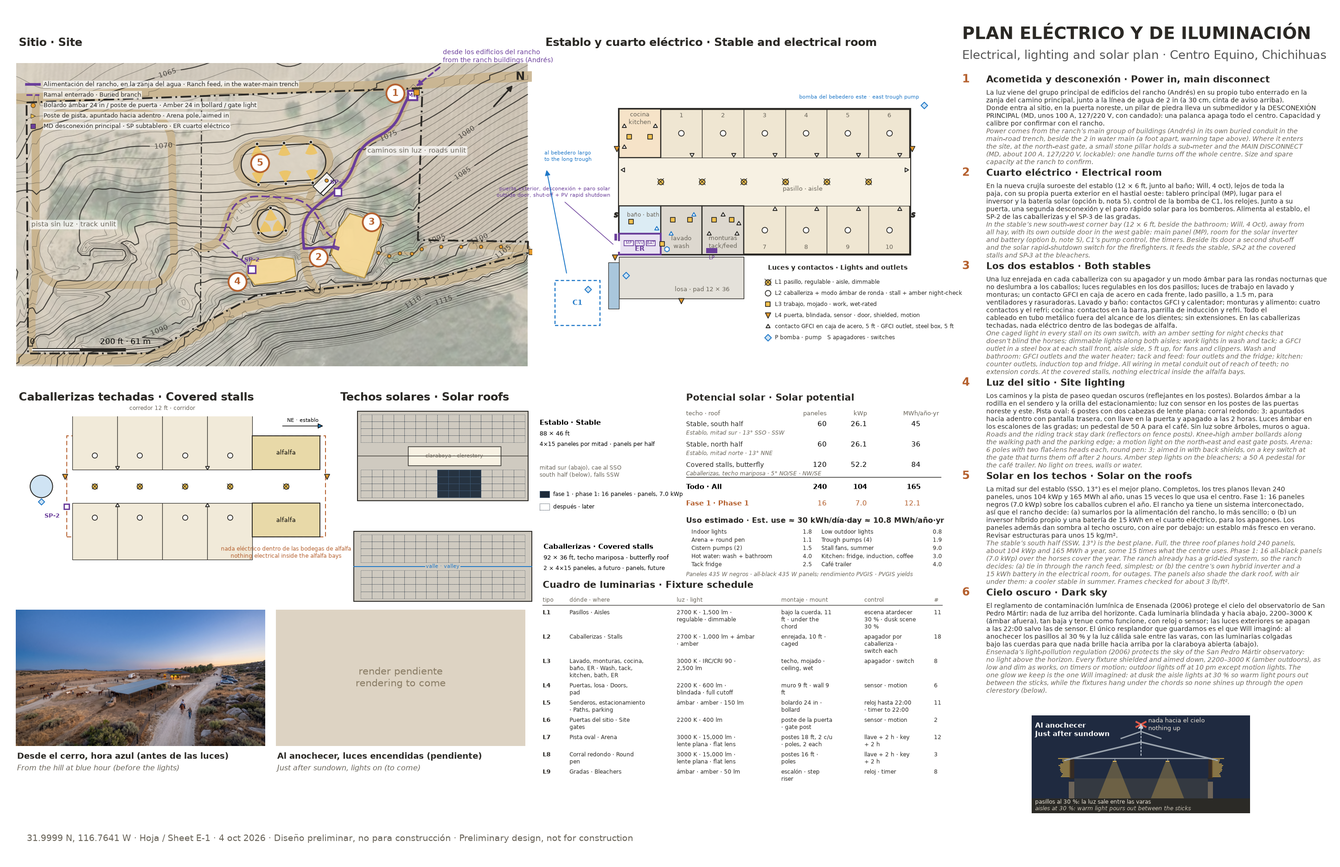
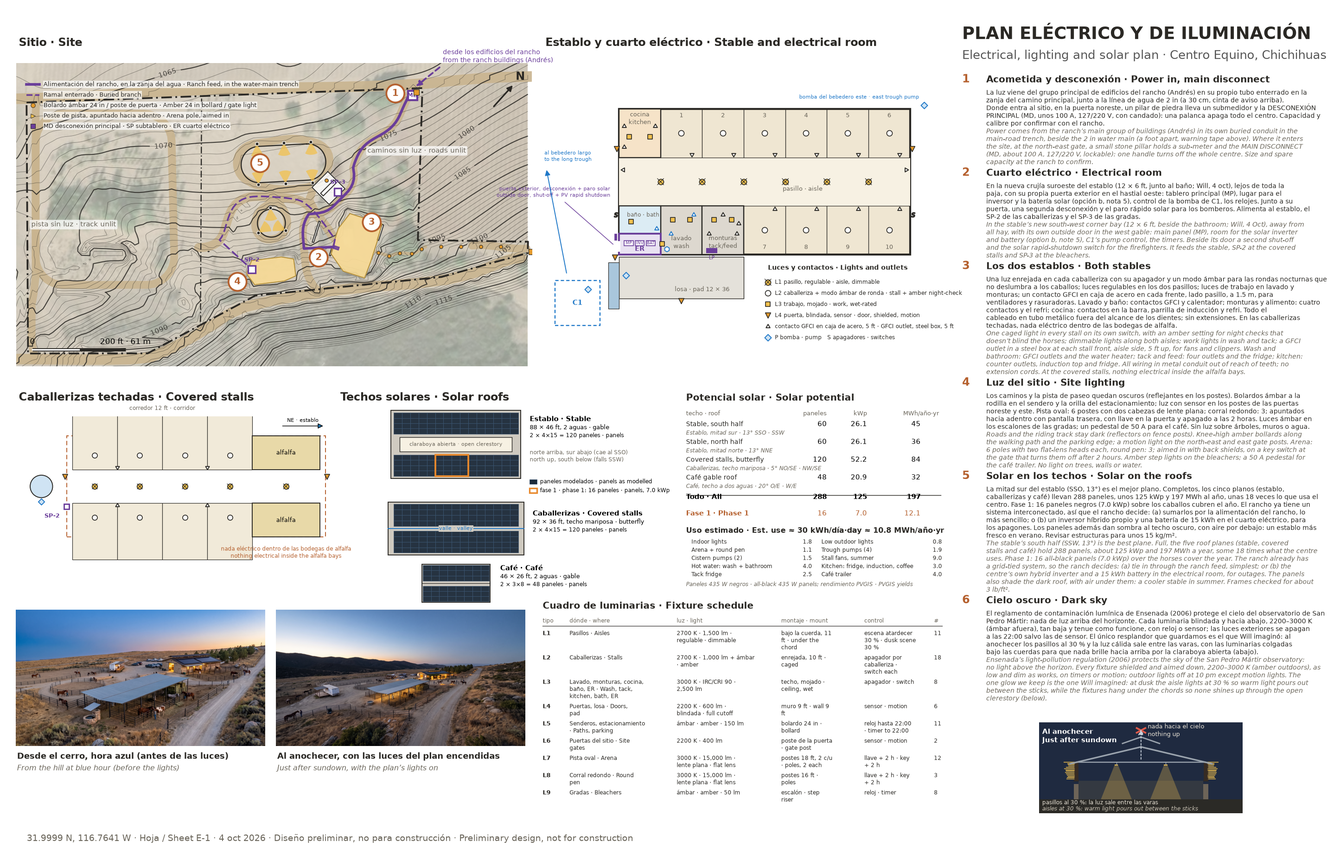
Renders: model shots record which objects are in frame; the brief drops descriptions of anything outside it (no invented backgrounds). E-1: roof diagram shows all modelled panels incl. the café gable; café added to the solar total (288 panels, 125 kWp, 197 MWh/yr)

Changed region(s): [[0.0, 0.4652, 0.9965, 0.9305], [0.218, 0.1861, 0.2803, 0.2791]]

diff --git a/projects/viewer/index.html b/projects/viewer/index.html
@@ -198,7 +198,7 @@ body.shot{grid-template-columns:1fr}
     scene.add(new THREE.Mesh(sg, new THREE.MeshLambertMaterial({ color: 0x8a6f52, side: THREE.DoubleSide }))); }
 
   // objects: body + roof, grouped for the switches
-  const groups = { roof: [], fence: [], truss: [], figures: [], solar: [] }, centres = {};
+  const groups = { roof: [], fence: [], truss: [], figures: [], solar: [] }, centres = {}, boxes = {}; window.__boxes = boxes;   /* 4 Oct: per-object boxes, so render shots can list what is in frame */
   const tex = (draw, rep = 1) => { const c = document.createElement('canvas'); c.width = c.height = 256; const x = c.getContext('2d'); draw(x); const t = new THREE.CanvasTexture(c); t.wrapS = t.wrapT = THREE.RepeatWrapping; t.anisotropy = 8; t.encoding = THREE.sRGBEncoding; t.rep = rep; return t; };
   let seed = 7; const rnd = () => (seed = (seed * 16807) % 2147483647) / 2147483647;
   const TEX = {
@@ -282,12 +282,12 @@ body.shot{grid-template-columns:1fr}
       const ctr = new THREE.Vector3(); { let n = 0; for (const a of Object.values(arrs)) for (let k = 0; k < a.length; k += 3) { ctr.x += a[k]; ctr.z += a[k + 2]; n++; } ctr.multiplyScalar(1 / n); }
       let all = []; for (const [m, arr] of Object.entries(arrs)) { const mesh = part(arr, m, axis, ROOF[o.name], ctr); if (m === 'roof' || m === 'glass') groups.roof.push(mesh); if (m === 'truss') groups.truss.push(mesh); if (m === 'solar') groups.solar.push(mesh); if (m === 'figure') { groups.figures.push(mesh); mesh.visible = false; /* pose figures: render shots only */ } all.push(arr); }
       const b = all.reduce((acc, a) => { const c = new Float32Array(acc.length + a.length); c.set(acc); c.set(a, acc.length); return c; }, new Float32Array(0));
-      let sx = 0, sz = 0, sy = 0, n = b.length / 3; for (let k = 0; k < b.length; k += 3) { sx += b[k]; sy = Math.max(sy, b[k + 1]); sz += b[k + 2]; } centres[o.name] = new THREE.Vector3(sx / n, sy, sz / n); continue;
+      let sx = 0, sz = 0, sy = 0, n = b.length / 3; for (let k = 0; k < b.length; k += 3) { sx += b[k]; sy = Math.max(sy, b[k + 1]); sz += b[k + 2]; } centres[o.name] = new THREE.Vector3(sx / n, sy, sz / n); boxes[o.name] = new THREE.Box3().setFromArray(b); continue;
     }
     const b = f32(o.body), m = soup(b, o.color); if (o.group === 'fence') groups.fence.push(m);
     if (o.roof) { const r = soup(f32(o.roof), o.roofColor); groups.roof.push(r); }
     let sx = 0, sz = 0, sy = 0, n = b.length / 3; for (let k = 0; k < b.length; k += 3) { sx += b[k]; sy = Math.max(sy, b[k + 1]); sz += b[k + 2]; }
-    centres[o.name] = new THREE.Vector3(sx / n, sy, sz / n);
+    centres[o.name] = new THREE.Vector3(sx / n, sy, sz / n); boxes[o.name] = new THREE.Box3().setFromArray(b);
   }
   // roads, ditches, the natural sink: ribbons draped on the ground
   const ribbon = (pts, w, color, lift, op = 1) => { const P = []; for (let k = 0; k < pts.length - 1; k++) { const [x1, z1] = pts[k], [x2, z2] = pts[k + 1], L = Math.hypot(x2 - x1, z2 - z1), n = Math.max(1, Math.ceil(L / 1.5)); for (let q = 0; q < n; q++) P.push([x1 + (x2 - x1) * q / n, z1 + (z2 - z1) * q / n]); } P.push(pts[pts.length - 1]);

diff --git a/projects/electrical.py b/projects/electrical.py
@@ -18,13 +18,14 @@ def pts_of(name): return np.array([q[:2] for q in byname(name)[0]['pts']])
 POW='#6a3d9a'; AMBER='#e39a2d'; WARM='#f2c14e'; PV='#1d2b3a'; PVF='#3c5878'
 # ---------------- numbers ----------------
 PANEL=(5.64,3.71,435)                                  # 1722 x 1134 mm all-black module, 435 W
-YIELD=dict(stS=1743,stN=1390,stalls=1600)              # kWh per kWp a year, PVGIS (NSRDB) 31.9999 N 116.7641 W, 14 % losses: stable S half 13.4° az 204°, N half az 24°, butterfly 4.8° both ways (1565/1634)
+YIELD=dict(stS=1743,stN=1390,stalls=1600,cafW=1567,cafE=1518)   # café roof 20° facing 273° / 93° (PVGIS, 4 Oct)              # kWh per kWp a year, PVGIS (NSRDB) 31.9999 N 116.7641 W, 14 % losses: stable S half 13.4° az 204°, N half az 24°, butterfly 4.8° both ways (1565/1634)
 def rows_cols(depth,length,margin=(1.5,1.0)):
     return int((depth-margin[0]-margin[1])//PANEL[1]), int((length-3)//PANEL[0])
 st_r,st_c=rows_cols(18/math.cos(math.radians(13.4)),88)          # 4 Oct: the stable is 84 ft (88 with overhangs)          # stable half: eave (with overhang) to the clerestory edge, along the slope
 sl_r,sl_c=rows_cols(18,92)                                        # each butterfly plane: eave to valley
-N_ST=st_r*st_c; N_SL=2*sl_r*sl_c; kw=lambda n:n*PANEL[2]/1000
-PV_ROWS=[('Establo, mitad sur · Stable, south half','13° SSO · SSW',N_ST,YIELD['stS']),('Establo, mitad norte · Stable, north half','13° NNE',N_ST,YIELD['stN']),('Caballerizas, techo mariposa · Covered stalls, butterfly','5° NO/SE · NW/SE',N_SL,YIELD['stalls'])]
+N_ST=st_r*st_c; N_SL=2*sl_r*sl_c; N_CF=8*3;   # café: 8 x 3 per slope on its 46 x 26 ft gable (bleachers.py)
+kw=lambda n:n*PANEL[2]/1000
+PV_ROWS=[('Establo, mitad sur · Stable, south half','13° SSO · SSW',N_ST,YIELD['stS']),('Establo, mitad norte · Stable, north half','13° NNE',N_ST,YIELD['stN']),('Caballerizas, techo mariposa · Covered stalls, butterfly','5° NO/SE · NW/SE',N_SL,YIELD['stalls']),('Café, techo a dos aguas · Café gable roof','20° O/E · W/E',2*N_CF,(YIELD['cafW']+YIELD['cafE'])/2)]
 PH1=16; PH1_KW=kw(PH1); PH1_MWH=PH1_KW*YIELD['stS']/1000
 LOADS=[('Luces interiores · Indoor lights',0.6,3),('Luces exteriores bajas · Low outdoor lights',.15,5),('Pista y corral redondo, 3 noches/sem · Arena + round pen, 3 nights/wk',1.7,1.5*3/7),
        ('Bombas de bebederos (4) · Trough pumps (4)',.16,12),('Bombas de cisternas (2) · Cistern pumps (2)',1.5,1),('Ventiladores, verano · Stall fans, summer',1.8,10/2),
@@ -172,31 +173,40 @@ cx_.text(XS+12,-RE-3,'nada eléctrico dentro de las bodegas de alfalfa\nnothing 
 cx_.text(-HL+32,HD+1.2,'corredor 12 ft · corridor',fontsize=5.2,ha='center',color='#6a655a'); cx_.annotate('',xy=(46,21.5),xytext=(30,21.5),arrowprops=dict(arrowstyle='-|>',lw=.6)); cx_.text(38,22.5,'NE · establo',fontsize=4.8,ha='center',va='bottom')
 
 # ---------------- roof plans: solar ----------------
-rx=fig.add_axes([0.252,0.302,0.258,0.228]); rx.set_aspect('equal'); rx.axis('off'); rx.set_xlim(-50,120); rx.set_ylim(-2,100)   # 4 Oct (Will): the two roofs stacked, bigger
+rx=fig.add_axes([0.252,0.302,0.258,0.228]); rx.set_aspect('equal'); rx.axis('off'); rx.set_xlim(-50,124); rx.set_ylim(-34,100)   # 4 Oct (Will): three roofs, all modelled panels shown
 fig.text(0.254,0.538,'Techos solares · Solar roofs',fontsize=10,weight='bold',color=INK)
-def panels(ax_,x0,y0,nr,nc,dy,col,alpha,lw=.3,sel=None):
-    pw,ph=PANEL[0],PANEL[1]*(math.cos(math.radians(13.4)) if dy else 1)
+def panels(ax_,x0,y0,nr,nc,dy,cosf=1.0):
+    pw,ph=PANEL[0],PANEL[1]*cosf
     for r_ in range(nr):
         for c_ in range(nc):
-            on=sel is None or sel(r_,c_)
-            yy=y0+(r_*ph if dy>0 else -(r_+1)*ph); ax_.add_patch(MRect((x0+c_*pw,yy),pw,ph,fc=PV if on else 'none',ec=PVF if on else PV,lw=lw if on else .35,alpha=alpha if on else .55,ls='-' if on else (0,(2,1.2))))
-# stable roof (76 x 46 with overhangs), the open clerestory, ridge; plan y up = north
-Y0=52                                                                                              # stable roof on top (y 52..98), stalls roof below (y 0..36)
-rx.add_patch(MRect((-44,Y0),88,46,fc='#cfcac0',ec=INK,lw=.8)); rx.plot([-44,44],[Y0+23,Y0+23],color=INK,lw=.5)
-rx.add_patch(MRect((-38,Y0+18),76,10,fc='#f7f1e3',ec=INK,lw=.6)); rx.text(0,Y0+23,'claraboya · clerestory',fontsize=4.8,ha='center',va='center',color='#6a655a')
+            yy=y0+(r_*ph if dy>0 else -(r_+1)*ph); ax_.add_patch(MRect((x0+c_*pw,yy),pw,ph,fc=PV,ec=PVF,lw=.3,alpha=.95))
+CS13=math.cos(math.radians(13.4))
+# stable roof 88 x 46 with overhangs, the 76 ft open clerestory along the ridge; plan y up = north
+Y0=52
+rx.add_patch(MRect((-44,Y0),88,46,fc='#cfcac0',ec=INK,lw=.8))
 w0=-st_c*PANEL[0]/2
-panels(rx,w0,Y0+1.5,st_r,st_c,1,PV,.95,sel=lambda r_,c_:abs(w0+(c_+.5)*PANEL[0])<=2*PANEL[0])                    # south half: phase 1 = the middle 4 x 4
-panels(rx,w0,Y0+44.5,st_r,st_c,-1,PV,.95,sel=lambda r_,c_:False)                                   # north half: optional
-rx.text(50,Y0+40,'Establo · Stable',fontsize=6.4,weight='bold',va='center'); rx.text(50,Y0+34.5,'88 × 46 ft',fontsize=5.4,va='center')
-rx.text(50,Y0+29,f'{st_r}×{st_c} paneles por mitad · panels per half',fontsize=5.0,va='center')
-rx.text(50,Y0+15,'mitad sur (abajo), cae al SSO\nsouth half (below), falls SSW',fontsize=5.0,va='center',color='#6a655a')
-rx.add_patch(MRect((-46,0),92,36,fc='#cfcac0',ec=INK,lw=.8)); rx.plot([-46,46],[18,18],color='#1f78c8',lw=.8)
-s0=-sl_c*PANEL[0]/2; panels(rx,s0,1.5,sl_r,sl_c,1,PV,.95,sel=lambda r_,c_:False); panels(rx,s0,36-1.5,sl_r,sl_c,-1,PV,.95,sel=lambda r_,c_:False)
-rx.text(0,18,'valle · valley',fontsize=4.8,ha='center',va='center',color='#1f78c8',bbox=dict(fc='#cfcac0',ec='none',pad=.6))
-rx.text(52,28,'Caballerizas · Covered stalls',fontsize=6.4,weight='bold',va='center'); rx.text(52,22.5,'92 × 36 ft, techo mariposa · butterfly roof',fontsize=5.4,va='center')
-rx.text(52,17,f'2 × {sl_r}×{sl_c} paneles, a futuro · panels, future',fontsize=5.0,va='center')
-rx.add_patch(MRect((50,Y0+1.5),5,3.4,fc=PV,ec=PVF,lw=.3)); rx.text(57,Y0+3.2,f'fase 1 · phase 1: {PH1} paneles · panels, {PH1_KW:.1f} kWp',fontsize=5.0,va='center')
-rx.add_patch(MRect((50,Y0-5),5,3.4,fc='none',ec=PV,lw=.35,ls=(0,(2,1.2)))); rx.text(57,Y0-3.3,'después · later',fontsize=5.0,va='center')
+panels(rx,w0,Y0+1.5,st_r,st_c,1,CS13); panels(rx,w0,Y0+44.5,st_r,st_c,-1,CS13)
+rx.add_patch(MRect((-38,Y0+18),76,10,fc='#f7f1e3',ec=INK,lw=.6)); rx.text(0,Y0+23,'claraboya abierta · open clerestory',fontsize=4.8,ha='center',va='center',color='#6a655a')
+p1x=w0+(st_c//2-2)*PANEL[0]; rx.add_patch(MRect((p1x,Y0+1.5),4*PANEL[0],4*PANEL[1]*CS13,fill=False,ec='#e8892c',lw=1.6))   # phase 1 outlined
+rx.text(50,Y0+40,'Establo · Stable',fontsize=6.4,weight='bold',va='center'); rx.text(50,Y0+34.5,'88 × 46 ft, 2 aguas · gable',fontsize=5.4,va='center')
+rx.text(50,Y0+29,f'2 × {st_r}×{st_c} = {2*N_ST} paneles · panels',fontsize=5.0,va='center')
+rx.text(50,Y0+15,'norte arriba, sur abajo (cae al SSO)'+chr(10)+'north up, south below (falls SSW)',fontsize=5.0,va='center',color='#6a655a')
+# covered stalls, butterfly
+rx.add_patch(MRect((-46,0),92,36,fc='#cfcac0',ec=INK,lw=.8))
+s0=-sl_c*PANEL[0]/2; panels(rx,s0,1.5,sl_r,sl_c,1); panels(rx,s0,36-1.5,sl_r,sl_c,-1)
+rx.plot([-46,46],[18,18],color='#1f78c8',lw=.8); rx.text(0,18,'valle · valley',fontsize=4.8,ha='center',va='center',color='#1f78c8',bbox=dict(fc='#cfcac0',ec='none',pad=.6))
+rx.text(52,28,'Caballerizas · Covered stalls',fontsize=6.4,weight='bold',va='center'); rx.text(52,22.5,'92 × 36 ft, techo mariposa · butterfly',fontsize=5.4,va='center')
+rx.text(52,17,f'2 × {sl_r}×{sl_c} = {N_SL} paneles · panels',fontsize=5.0,va='center')
+# café gable over the trailer and both decks: 46 x 26 ft, ridge on the trailer's centre line
+CW,CD=46,25.6
+rx.add_patch(MRect((-CW/2,-32),CW,CD,fc='#cfcac0',ec=INK,lw=.8))
+c0x=-8*PANEL[0]/2; panels(rx,c0x,-32+.6,3,8,1,math.cos(math.radians(20))); panels(rx,c0x,-32+CD-.6,3,8,-1,math.cos(math.radians(20)))
+rx.plot([-CW/2,CW/2],[-32+CD/2]*2,color=INK,lw=.5)
+rx.text(30,-9,'Café · Café',fontsize=6.4,weight='bold',va='center'); rx.text(30,-14.5,'46 × 26 ft, 2 aguas · gable',fontsize=5.4,va='center')
+rx.text(30,-20,f'2 × 3×8 = {2*N_CF} paneles · panels',fontsize=5.0,va='center')
+# legend
+rx.add_patch(MRect((50,Y0-4),5,3.4,fc=PV,ec=PVF,lw=.3)); rx.text(57,Y0-2.3,'paneles modelados · panels as modelled',fontsize=5.0,va='center')
+rx.add_patch(MRect((50,Y0-10),5,3.4,fill=False,ec='#e8892c',lw=1.4)); rx.text(57,Y0-8.3,f'fase 1 · phase 1: {PH1} paneles · panels, {PH1_KW:.1f} kWp',fontsize=5.0,va='center')
 # ---------------- solar + load table ----------------
 tx0=0.512; ty=0.538
 fig.text(tx0,ty,'Potencial solar · Solar potential',fontsize=8.6,weight='bold',color=INK); ty-=.017
@@ -205,9 +215,9 @@ for x,t in ((.105,'paneles'),(.135,'kWp'),(.162,'MWh/año·yr')): fig.text(tx0+x
 ty-=.0125
 for nm,orient,n,y in PV_ROWS:
     fig.text(tx0,ty,nm.split(' · ')[1],fontsize=6,color=INK); fig.text(tx0,ty-.0098,f'{nm.split(" · ")[0]} · {orient}',fontsize=5.0,color='#6a655a',style='italic')
-    fig.text(tx0+.105,ty,f'{n}',fontsize=6.4,ha='right'); fig.text(tx0+.135,ty,f'{kw(n):.1f}',fontsize=6.4,ha='right'); fig.text(tx0+.175,ty,f'{kw(n)*y/1000:.0f}',fontsize=6.4,ha='right'); ty-=.0235
-ty-=.005; fig.add_artist(matplotlib.lines.Line2D([tx0,tx0+.19],[ty+.0165,ty+.0165],color=INK,lw=.6))
-fig.text(tx0,ty+.003,'Todo · All',fontsize=6.4,weight='bold'); fig.text(tx0+.105,ty+.003,f'{N_ST*2+N_SL}',fontsize=6.4,ha='right',weight='bold'); fig.text(tx0+.135,ty+.003,f'{POT_KW:.0f}',fontsize=6.4,ha='right',weight='bold'); fig.text(tx0+.175,ty+.003,f'{POT_MWH:.0f}',fontsize=6.4,ha='right',weight='bold')
+    fig.text(tx0+.105,ty,f'{n}',fontsize=6.4,ha='right'); fig.text(tx0+.135,ty,f'{kw(n):.1f}',fontsize=6.4,ha='right'); fig.text(tx0+.175,ty,f'{kw(n)*y/1000:.0f}',fontsize=6.4,ha='right'); ty-=.0205
+ty-=.009; fig.add_artist(matplotlib.lines.Line2D([tx0,tx0+.19],[ty+.0135,ty+.0135],color=INK,lw=.6))
+fig.text(tx0,ty+.003,'Todo · All',fontsize=6.4,weight='bold'); fig.text(tx0+.105,ty+.003,f'{N_ST*2+N_SL+2*N_CF}',fontsize=6.4,ha='right',weight='bold'); fig.text(tx0+.135,ty+.003,f'{POT_KW:.0f}',fontsize=6.4,ha='right',weight='bold'); fig.text(tx0+.175,ty+.003,f'{POT_MWH:.0f}',fontsize=6.4,ha='right',weight='bold')
 ty-=.016; fig.text(tx0,ty,'Fase 1 · Phase 1',fontsize=6.4,weight='bold',color='#b5602e'); fig.text(tx0+.105,ty,f'{PH1}',fontsize=6.4,ha='right',color='#b5602e'); fig.text(tx0+.135,ty,f'{PH1_KW:.1f}',fontsize=6.4,ha='right',color='#b5602e'); fig.text(tx0+.175,ty,f'{PH1_MWH:.1f}',fontsize=6.4,ha='right',color='#b5602e')
 ty-=.02; fig.text(tx0,ty,f'Uso estimado · Est. use ≈ {DAY:.0f} kWh/día·day ≈ {YEAR/1000:.1f} MWh/año·yr',fontsize=6.6,weight='bold',color=INK); ty-=.0125
 for i_,(nm,kwh,h) in enumerate(LOADS):
@@ -248,7 +258,7 @@ FX=[('L1','Pasillos · Aisles','2700 K · 1,500 lm · regulable · dimmable','ba
     ('L7','Pista oval · Arena',f'3000 K · 15,000 lm · lente plana · flat lens','postes 18 ft, 2 c/u · poles, 2 each','llave + 2 h · key + 2 h',2*NARENA),
     ('L8','Corral redondo · Round pen','3000 K · 15,000 lm · lente plana · flat lens','postes 16 ft · poles','llave + 2 h · key + 2 h',NRP),
     ('L9','Gradas · Bleachers','ámbar · amber · 50 lm','escalón · step riser','reloj · timer',8)]
-fx0=0.405; fy0=0.322
+fx0=0.405; fy0=0.298
 fig.text(fx0,fy0,'Cuadro de luminarias · Fixture schedule',fontsize=8.6,weight='bold',color=INK); fy0-=.016
 COLX=[0,.02,.10,.178,.24,.292]
 for x,t in zip(COLX,['tipo','dónde · where','luz · light','montaje · mount','control','#']): fig.text(fx0+x,fy0,t,fontsize=5.2,color='#6a655a')
@@ -271,7 +281,7 @@ NOTES_E=[
  ('Electrical room','Cuarto eléctrico','In the stable’s new south-west corner bay (12 × 6 ft, beside the bathroom; Will, 4 Oct), away from all hay, with its own outside door in the west gable: main panel (MP), room for the solar inverter and battery (option b, note 5), C1’s pump control, the timers. Beside its door a second shut-off and the solar rapid-shutdown switch for the firefighters. It feeds the stable, SP-2 at the covered stalls and SP-3 at the bleachers.','En la nueva crujía suroeste del establo (12 × 6 ft, junto al baño; Will, 4 oct), lejos de toda la paja, con su propia puerta exterior en el hastial oeste: tablero principal (MP), lugar para el inversor y la batería solar (opción b, nota 5), control de la bomba de C1, los relojes. Junto a su puerta, una segunda desconexión y el paro rápido solar para los bomberos. Alimenta al establo, el SP-2 de las caballerizas y el SP-3 de las gradas.'),
  ('Both stables','Los dos establos','One caged light in every stall on its own switch, with an amber setting for night checks that doesn’t blind the horses; dimmable lights along both aisles; work lights in wash and tack; a GFCI outlet in a steel box at each stall front, aisle side, 5 ft up, for fans and clippers. Wash and bathroom: GFCI outlets and the water heater; tack and feed: four outlets and the fridge; kitchen: counter outlets, induction top and fridge. All wiring in metal conduit out of reach of teeth; no extension cords. At the covered stalls, nothing electrical inside the alfalfa bays.','Una luz enrejada en cada caballeriza con su apagador y un modo ámbar para las rondas nocturnas que no deslumbra a los caballos; luces regulables en los dos pasillos; luces de trabajo en lavado y monturas; un contacto GFCI en caja de acero en cada frente, lado pasillo, a 1.5 m, para ventiladores y rasuradoras. Lavado y baño: contactos GFCI y calentador; monturas y alimento: cuatro contactos y el refri; cocina: contactos en la barra, parrilla de inducción y refri. Todo el cableado en tubo metálico fuera del alcance de los dientes; sin extensiones. En las caballerizas techadas, nada eléctrico dentro de las bodegas de alfalfa.'),
  ('Site lighting','Luz del sitio',f'Roads and the riding track stay dark (reflectors on fence posts). Knee-high amber bollards along the walking path and the parking edge; a motion light on the north-east and east gate posts. Arena: {NARENA} poles with two flat-lens heads each, round pen: {NRP}; aimed in with back shields, on a key switch at the gate that turns them off after 2 hours. Amber step lights on the bleachers; a 50 A pedestal for the café trailer. No light on trees, walls or water.',f'Los caminos y la pista de paseo quedan oscuros (reflejantes en los postes). Bolardos ámbar a la rodilla en el sendero y la orilla del estacionamiento; luz con sensor en los postes de las puertas noreste y este. Pista oval: {NARENA} postes con dos cabezas de lente plana; corral redondo: {NRP}; apuntados hacia adentro con pantalla trasera, con llave en la puerta y apagado a las 2 horas. Luces ámbar en los escalones de las gradas; un pedestal de 50 A para el café. Sin luz sobre árboles, muros o agua.'),
- ('Solar on the roofs','Solar en los techos',f'The stable’s south half (SSW, 13°) is the best plane. Full, the three roof planes hold {N_ST*2+N_SL} panels, about {POT_KW:.0f} kWp and {POT_MWH:.0f} MWh a year, some {POT_MWH*1000/YEAR:.0f} times what the centre uses. Phase 1: {PH1} all-black panels ({PH1_KW:.1f} kWp) over the horses cover the year. The ranch already has a grid-tied system, so the ranch decides: (a) tie in through the ranch feed, simplest; or (b) the centre’s own hybrid inverter and a 15 kWh battery in the electrical room, for outages. The panels also shade the dark roof, with air under them: a cooler stable in summer. Frames checked for about 3 lb/ft².',f'La mitad sur del establo (SSO, 13°) es el mejor plano. Completos, los tres planos llevan {N_ST*2+N_SL} paneles, unos {POT_KW:.0f} kWp y {POT_MWH:.0f} MWh al año, unas {POT_MWH*1000/YEAR:.0f} veces lo que usa el centro. Fase 1: {PH1} paneles negros ({PH1_KW:.1f} kWp) sobre los caballos cubren el año. El rancho ya tiene un sistema interconectado, así que el rancho decide: (a) sumarlos por la alimentación del rancho, lo más sencillo; o (b) un inversor híbrido propio y una batería de 15 kWh en el cuarto eléctrico, para los apagones. Los paneles además dan sombra al techo oscuro, con aire por debajo: un establo más fresco en verano. Revisar estructuras para unos 15 kg/m².'),
+ ('Solar on the roofs','Solar en los techos',f'The stable’s south half (SSW, 13°) is the best plane. Full, the five roof planes (stable, covered stalls and café) hold {N_ST*2+N_SL+2*N_CF} panels, about {POT_KW:.0f} kWp and {POT_MWH:.0f} MWh a year, some {POT_MWH*1000/YEAR:.0f} times what the centre uses. Phase 1: {PH1} all-black panels ({PH1_KW:.1f} kWp) over the horses cover the year. The ranch already has a grid-tied system, so the ranch decides: (a) tie in through the ranch feed, simplest; or (b) the centre’s own hybrid inverter and a 15 kWh battery in the electrical room, for outages. The panels also shade the dark roof, with air under them: a cooler stable in summer. Frames checked for about 3 lb/ft².',f'La mitad sur del establo (SSO, 13°) es el mejor plano. Completos, los cinco planos (establo, caballerizas y café) llevan {N_ST*2+N_SL+2*N_CF} paneles, unos {POT_KW:.0f} kWp y {POT_MWH:.0f} MWh al año, unas {POT_MWH*1000/YEAR:.0f} veces lo que usa el centro. Fase 1: {PH1} paneles negros ({PH1_KW:.1f} kWp) sobre los caballos cubren el año. El rancho ya tiene un sistema interconectado, así que el rancho decide: (a) sumarlos por la alimentación del rancho, lo más sencillo; o (b) un inversor híbrido propio y una batería de 15 kWh en el cuarto eléctrico, para los apagones. Los paneles además dan sombra al techo oscuro, con aire por debajo: un establo más fresco en verano. Revisar estructuras para unos 15 kg/m².'),
  ('Dark sky','Cielo oscuro','Ensenada’s light-pollution regulation (2006) protects the sky of the San Pedro Mártir observatory: no light above the horizon. Every fixture shielded and aimed down, 2200–3000 K (amber outdoors), as low and dim as works, on timers or motion; outdoor lights off at 10 pm except motion lights. The one glow we keep is the one Will imagined: at dusk the aisle lights at 30 % so warm light pours out between the sticks, while the fixtures hang under the chords so none shines up through the open clerestory (below).','El reglamento de contaminación lumínica de Ensenada (2006) protege el cielo del observatorio de San Pedro Mártir: nada de luz arriba del horizonte. Cada luminaria blindada y hacia abajo, 2200–3000 K (ámbar afuera), tan baja y tenue como funcione, con reloj o sensor; las luces exteriores se apagan a las 22:00 salvo las de sensor. El único resplandor que guardamos es el que Will imaginó: al anochecer los pasillos al 30 % y la luz cálida sale entre las varas, con las luminarias colgadas bajo las cuerdas para que nada brille hacia arriba por la claraboya abierta (abajo).'),
 ]
 y=0.905

diff --git a/projects/renders/gallery3.py b/projects/renders/gallery3.py
@@ -59,7 +59,7 @@ EXTRA = {   # per-view fixes from the gallery notes (28 Sep)
     'b3-sw': ' The small boxes in the parking strip are CARS and PICKUPS, never tanks or farm machinery. The riding track and its infield are well vegetated with sage scrub and grasses. The blue area in the low spot below the track is shallow standing water in a natural sink: paint it as water.',
     'wash-farrier': ' THE SCENE: the concrete wash pad beside the stable under a steel pipe pergola covered by a living GRAPEVINE: broad green vine leaves overhead and ripe pale GREEN grape bunches (white wine grapes, no purple) hanging down through the pipes, dappled golden light on the concrete. On the pad a calm bay horse stands on all four legs, its whole body side-on to the camera and parallel to the stable wall, its head tied short to the bent black steel pipe hoop. The farrier works at its hind end the real way: he stands beside the hind leg facing the horse’s tail, bent forward with his back flat, the horse’s lower hind leg lifted and cradled across his thighs just above his knees, hoof sole up, rasp in hand; his leather apron on, his tool box on the concrete behind him. A rider stands at the horse’s head holding the lead rope. Horse and people at true scale, fully on the concrete pad, nothing floating or overlapping. At the end of the stone trough a small lower stone basin catches a thin stream of water pouring from a stone spout. Keep the plastered wash room wall, its wooden plank sliding door and every pipe exactly where the render has them.',
     '1-hero-sw': ' The covered stalls corridor runs straight through and is OPEN at this end: no wall, block, pillar or stone mass closes it; between the last two stall posts there is only open air, with the round fieldstone trough standing free in front of the opening and the roof chute pouring into it. Pipe stall fronts and panels only, no stone walls anywhere on the covered stalls.',
-    'cafe-end': ' THE VIEW: the end of the old white semi-trailer (a plain weathered box trailer, keep its rusty rear doors exactly), now a DOUBLE-SIDED café: one wide wooden stair across the whole end leads up to a wooden deck on EACH long side, each deck under its own light corrugated shade roof with a serving window and stools, and each side fanning out into three curved stepped wooden picnic platforms with families on blankets; the shade roofs are plain metal, no solar panels. Keep the trailer, decks, stairs and platforms exactly as the render shows.',
+    'cafe-end': ' THE VIEW: the end of the old white semi-trailer (a plain weathered box trailer, keep its rusty rear doors exactly), now a DOUBLE-SIDED café: one wide wooden stair across the whole end leads up to a wooden deck on EACH long side, one gable roof over the trailer and both decks, covered on both slopes with black solar panels (the dark roof in the render), with a serving window and stools on each side, and each side fanning out into three curved stepped wooden picnic platforms with families on blankets; Keep the trailer, decks, stairs and platforms exactly as the render shows.',
     '23-picnic-side': ' The old white trailer is a DOUBLE-SIDED café: a serving window on BOTH long sides, each side with its own wooden deck, shade roof and three curved stepped wooden picnic platforms, and at each end of the trailer one wide wooden stair up to the decks, exactly as the render shows. The ground inside the fenced arena is groomed riding sand, freshly raked in fine even parallel lines (harrowed footing), pale and clean, no grass and no weeds inside the fence. The old white trailer has become a small café: a serving window opened in its side with a hinged wooden awning, a few stools at a narrow wooden counter, warm light inside, and ONE small, simple, tasteful hand-painted wooden sign above the window reading CAFÉ in plain lettering, nothing else, no logos, no neon, no banners.',
     '5-corridor-out': ' The camera is under the butterfly roof at eye level looking down the corridor, which runs straight through to the far open end; the alfalfa bales sit behind pipe panels on BOTH sides of the far bay, never across the corridor.',
 
@@ -83,8 +83,26 @@ HYB = {
   'sole up; the rider stands at its head holding the lead rope.'),
 }
 STYLE = os.environ.get('GAL_STYLE', '')
+# 4 Oct (Will: "the background seems like the wrong view"): the brief describes every building on the site, and the painters paint
+# them into empty backgrounds. modelshots.mjs now writes model-<view>.vis.json (objects in frame and their share of the picture);
+# fit_brief() drops the sentences about things outside the frame and says what the frame does contain.
+import json as _js, re as _re
+VIS_WORDS = {'walker barn 72x40': ('The large stable', 'stable'), 'covered stalls': ('The open shed with the butterfly', 'covered stalls'),
+             'trailer 8 x 40': ('The old white semi-trailer', 'café trailer'), 'bleachers': ('The old white semi-trailer', 'café decks and picnic platforms'),
+             'stone trough (long)': ('The long low box', 'long stone trough'), 'arena fence': ('The oval with the fence', 'riding arena'),
+             'round pen fence': ('The oval with the fence', 'round pen'), 'pine forest': ('The round trees', 'pine grove')}
+def fit_brief(text, vid):
+    f = os.path.join(SRC, f'model-{vid}.vis.json')
+    if not os.path.exists(f): return text
+    vis = _js.load(open(f)); keep = {k for k in vis if k in VIS_WORDS}
+    for name, (lead, _) in VIS_WORDS.items():
+        if any(VIS_WORDS[k][0] == lead for k in keep): continue
+        text = _re.sub(_re.escape(lead) + r'[^.]*\.\s*', '', text)                     # the sentence about something not in frame
+    seen = sorted({VIS_WORDS[k][1] for k in keep}, key=lambda s: -max(vis[k] for k in keep if VIS_WORDS[k][1] == s))
+    return text + (' IN THIS FRAME there is only: ' + ', '.join(seen) + ', plus open ground, roads and fences. Nothing else is built in this picture: the background is open land, scrub and hills.' if seen else
+                   ' Nothing built is in this frame beyond what the render shows: the background is open land, scrub and hills.')
 # 4 Oct (Will: 'solar on'): model shots show the phase-1 panels; tell the painter what the dark block on the stable roof is
-SOLAR = ' Black solar panels cover both slopes of the stable roof (either side of the long open clerestory) and both planes of the covered stalls’ butterfly roof, exactly where the render shows the dark panel fields; NO solar panels on the café’s shade roofs or anywhere else.'
+SOLAR = ' Black solar panels cover both slopes of the stable roof (either side of the long open clerestory) and both planes of the covered stalls’ butterfly roof, exactly where the render shows the dark panel fields; and on the café’s gable roof where the render shows them; nowhere else.'
 # 4 Oct (Will: OpenAI looks flat; try other times of day and weather): the light fan. A fan view tagged with one of these keys swaps
 # the brief's light sentence; fan.py --light also moves the model's sun to the matching hour so the shadows are true.
 LIGHT_DEFAULT = 'Light: warm low golden-hour sun, long soft shadows, a sky with big lit cumulus clouds.'
@@ -103,7 +121,11 @@ if __name__ == '__main__':
     if not k: sys.exit('no key for ' + ENGINE)
     CAFE = {'23-picnic-side', 'cafe-end'}   # 4 Oct (Will): the trailer is a small cafe in these views, so drop the 'no sign' lines
     _BRIEF0, _HYB0 = BRIEF, dict(HYB)
+    _o, _g = openai, google; CUR = ['']
+    openai = lambda src, pr, refs, k_: _o(src, fit_brief(pr, CUR[0]), refs, k_)
+    google = lambda src, pr, refs, k_, **kw: _g(src, fit_brief(pr, CUR[0]), refs, k_, **kw)
     for v in (ONLY or VIEWS):
+        CUR[0] = v
         t = time.time()
         _lt = v.split('-fan-')[1] if '-fan-' in v else ''
         BRIEF = _BRIEF0.replace(LIGHT_DEFAULT, LIGHT[_lt][1]) if _lt in LIGHT else _BRIEF0
